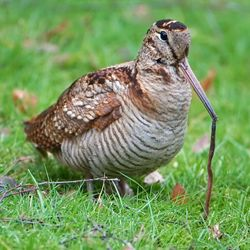
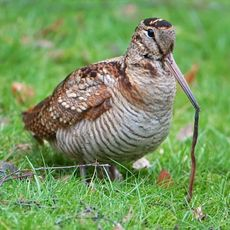
feat(master): test max height on android

diff --git a/src/main.css b/src/main.css
@@ -10,8 +10,7 @@
 }
 
 html {
-  height: calc(100%);
-  min-height: 100vh;
+  height: 100%;
 }
 
 body {
@@ -19,18 +18,20 @@ body {
   background-image: url("/assets/img/bg-light-green.jpg");
   background-repeat: no-repeat;
   background-size: 100% 100%;
-  height: calc(100%);
-  min-height: 100vh;
+  position: absolute;
+  top: 0;
+  bottom: 0;
+  right: 0;
+  left: 0;
 }
 
 .main-container {
-  height: calc(100%);
-  min-height: 100vh;
+  height: 100%;
 }
 
-.img-h-250 {
+.img-h-230 {
   margin: auto;
-  height: 250px;
+  height: 230px;
   max-width: 100%;
   display: block;
   margin: auto;

diff --git a/resize.js b/resize.js
@@ -6,7 +6,7 @@ const sharp = require("sharp");
 
 const imgSrc = "./public/assets/img/belgian_birds";
 const imgDest = "./public/assets/img/belgian_birds/resized";
-const imgHeight = 250;
+const imgHeight = 230;
 
 const rmDirP = path =>
   new Promise((resolve, reject) => {
